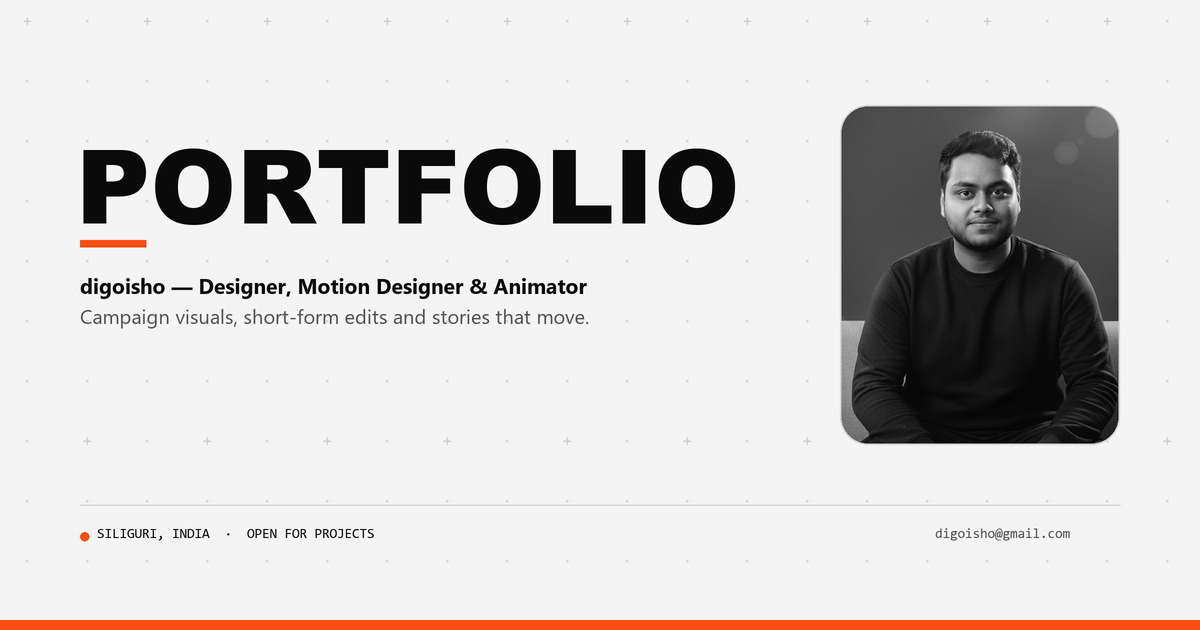
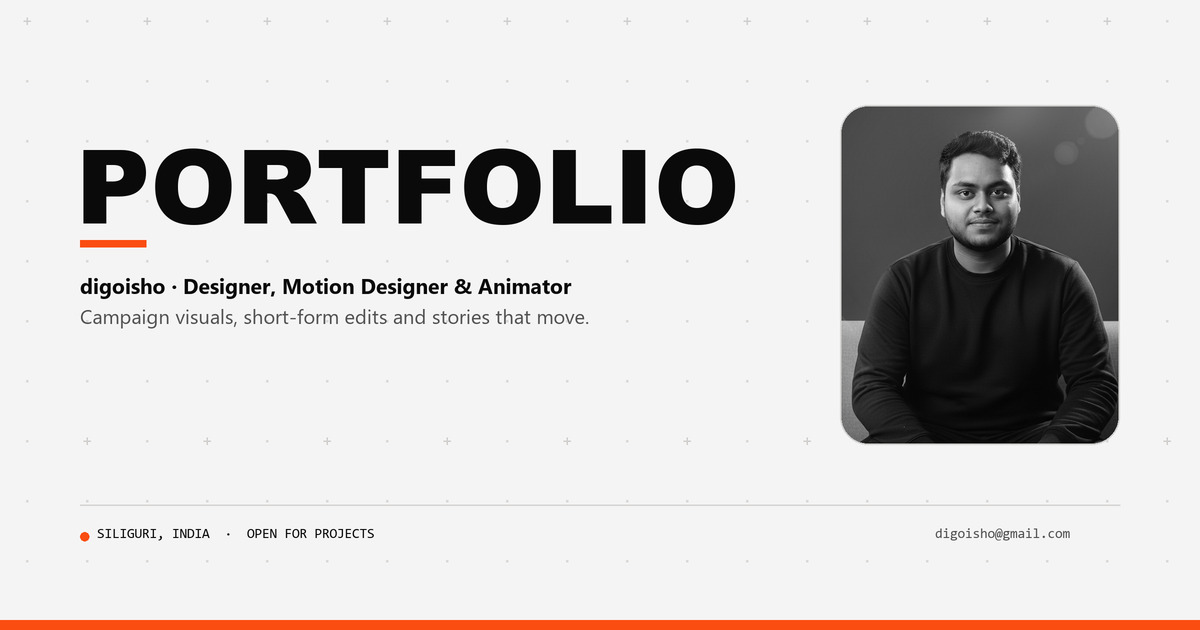
Remove all em-dashes across website copy, metadata, OG card, and docs

Changed region(s): [[0.1542, 0.4222, 0.4933, 0.4825]]

diff --git a/index.html b/index.html
@@ -3,21 +3,21 @@
 <head>
 <meta charset="utf-8">
 <meta name="viewport" content="width=device-width, initial-scale=1, viewport-fit=cover">
-<title>digoisho — Design, Motion &amp; Animation</title>
-<meta name="description" content="Portfolio of digoisho — Design Head, motion designer, animator and video editor based in Siliguri, India.">
+<title>digoisho · Design, Motion &amp; Animation</title>
+<meta name="description" content="Portfolio of digoisho, Design Head, motion designer, animator and video editor based in Siliguri, India.">
 <meta name="theme-color" content="#F5F4F4">
 <meta property="og:type" content="website">
 <meta property="og:site_name" content="digoisho">
-<meta property="og:title" content="digoisho — Design Head, Motion &amp; 2D Animation">
-<meta property="og:description" content="Campaign visuals, short-form edits, 2D animations and stories that move — by digoisho (Siliguri, India).">
+<meta property="og:title" content="digoisho · Design Head, Motion &amp; 2D Animation">
+<meta property="og:description" content="Campaign visuals, short-form edits, 2D animations and stories that move by digoisho (Siliguri, India).">
 <meta property="og:image" content="https://raw.githubusercontent.com/digoisho/Digoisho-Portfolio-2026_03/main/Images/og-cover.jpg">
 <meta property="og:image:type" content="image/jpeg">
 <meta property="og:image:width" content="1200">
 <meta property="og:image:height" content="630">
-<meta property="og:image:alt" content="digoisho — Design Head, Motion &amp; 2D Animation portfolio preview">
+<meta property="og:image:alt" content="digoisho · Design Head, Motion &amp; 2D Animation portfolio preview">
 <meta name="twitter:card" content="summary_large_image">
-<meta name="twitter:title" content="digoisho — Design Head, Motion &amp; 2D Animation">
-<meta name="twitter:description" content="Campaign visuals, short-form edits, 2D animations and stories that move — by digoisho.">
+<meta name="twitter:title" content="digoisho · Design Head, Motion &amp; 2D Animation">
+<meta name="twitter:description" content="Campaign visuals, short-form edits, 2D animations and stories that move by digoisho.">
 <meta name="twitter:image" content="https://raw.githubusercontent.com/digoisho/Digoisho-Portfolio-2026_03/main/Images/og-cover.jpg">
 <link rel="icon" type="image/svg+xml" href="Images/Digoisho%20logo.svg">
 <link rel="preload" as="image" href="Images/Motion%20Video%20BG%20WebP/Motion%20Video%20BG_00001.webp" type="image/webp">
@@ -56,7 +56,7 @@
   --font:'Open Sans',system-ui,-apple-system,sans-serif;
   --mono:'JetBrains Mono',ui-monospace,SFMono-Regular,Menlo,monospace;
 
-  /* True symmetric & silky ease-in-out curves — zero frame-0 snap */
+  /* True symmetric & silky ease-in-out curves - zero frame-0 snap */
   --ease:cubic-bezier(.65,0,.35,1);
   --ease-out:cubic-bezier(.45,0,.15,1);
 }
@@ -79,7 +79,7 @@ img{display:block;max-width:100%}
 :focus-visible{outline:2px solid var(--orange);outline-offset:3px}
 
 /* ============================================================
-   70% UNIFIED STUDIO BACKDROP (Flat #F5F4F4 — Zero Glow Washes,
+   70% UNIFIED STUDIO BACKDROP (Flat #F5F4F4 - Zero Glow Washes,
    30% Opacity Interactive Pixel Lattice)
    ============================================================ */
 .studio-bg{
@@ -188,7 +188,7 @@ img{display:block;max-width:100%}
 .u-link:hover::after{transform:scaleX(1);transform-origin:left}
 
 /* ============================================================
-   1. HERO — Bold Studio Stage + Direct Folder Jump Strip
+   1. HERO - Bold Studio Stage + Direct Folder Jump Strip
    ============================================================ */
 #hero{padding-top:34px;padding-bottom:36px}
 
@@ -512,7 +512,7 @@ img{display:block;max-width:100%}
 .folder-jump:hover svg{opacity:1;fill:var(--orange);transform:scale(1.08)}
 
 /* ============================================================
-   1B. MOTION VIDEO BG — 1920x1080 @ 30fps PNG Sequence Section
+   1B. MOTION VIDEO BG - 1920x1080 @ 30fps PNG Sequence Section
    ============================================================ */
 .motion-seq-sec{
   position:relative;
@@ -538,7 +538,7 @@ img{display:block;max-width:100%}
 }
 
 /* ============================================================
-   2. WORK — Folder Carousel + Pocket Gallery (Zero Glow:
+   2. WORK - Folder Carousel + Pocket Gallery (Zero Glow:
    20% Carbon Black Active Folder, 70% Cool Stone Side Folders,
    10% Solid Blaze Orange #FA4D11 Protruding Folder Lip)
    ============================================================ */
@@ -691,7 +691,7 @@ img{display:block;max-width:100%}
 .stage.m:not(.go) .card{top:324px;height:150px;visibility:hidden;transition:transform .68s var(--ease),top .68s var(--ease),height .68s var(--ease),visibility 0s linear .7s}
 
 /* ============================================================
-   3. ABOUT — Folder-Tabbed Studio Stage (One screen, zero boxes)
+   3. ABOUT - Folder-Tabbed Studio Stage (One screen, zero boxes)
    ============================================================ */
 #about{
   min-height:auto;
@@ -710,7 +710,7 @@ img{display:block;max-width:100%}
 }
 .sec-title span{color:rgba(10,10,10,.36)}
 
-/* Horizontal Overlapping Folder-Tab Switcher — Same Design.ai Curve & Cascade as .menubar, Flush on Line, Zero Glow */
+/* Horizontal Overlapping Folder-Tab Switcher - Same Design.ai Curve & Cascade as .menubar, Flush on Line, Zero Glow */
 .folder-tabs{
   --ft-h:clamp(38px,3.6vw,50px);
   --ft-s:calc(var(--ft-h) * .8215);
@@ -764,7 +764,7 @@ img{display:block;max-width:100%}
   transition:color .44s var(--ease);
 }
 
-/* Stacked grid crossfade — zero display:none snap */
+/* Stacked grid crossfade - zero display:none snap */
 .about-panels{
   padding-top:48px;min-height:0;
   display:grid;align-items:start;
@@ -878,7 +878,7 @@ img{display:block;max-width:100%}
 .tk-group p span{color:var(--ink-45);font-weight:400;font-size:.8em}
 
 /* ============================================================
-   4. CONTACT & POEM — Scroll-Reactive Dark-Mode Envelope Stage
+   4. CONTACT & POEM - Scroll-Reactive Dark-Mode Envelope Stage
    (Closed envelope at scroll entry -> Flap unfolds up & reveals
     dark-mode #0A0A0A contact stage as user scrolls to bottom)
    ============================================================ */
@@ -982,7 +982,7 @@ img{display:block;max-width:100%}
 }
 .soc-link:hover{color:var(--orange);transform:translate3d(0,-2px,0)}
 
-/* Expandable DIGOISHO Poem — Horizontal 4-stanza spread (Dark Mode inside Envelope) */
+/* Expandable DIGOISHO Poem - Horizontal 4-stanza spread (Dark Mode inside Envelope) */
 .poem-drawer{margin-top:44px}
 .poem-trig{
   display:inline-flex;align-items:center;gap:12px;
@@ -1045,7 +1045,7 @@ img{display:block;max-width:100%}
 
 /* ============================================================
    FLOATING BUBBLE -> REVEALS SPECIAL MENTIONS (Elma Zarin Khan)
-   (20% Carbon Black Pill + 10% Blaze Orange Dot — Zero Glow)
+   (20% Carbon Black Pill + 10% Blaze Orange Dot - Zero Glow)
    ============================================================ */
 .sm-bubble{
   position:fixed;
@@ -1087,7 +1087,7 @@ img{display:block;max-width:100%}
   letter-spacing:.12em;text-transform:uppercase;color:var(--orange);
 }
 
-/* Revealed Special Mentions Overlay (Lightweight GPU Composited — Zero Blur/Clip Glitch) */
+/* Revealed Special Mentions Overlay (Lightweight GPU Composited - Zero Blur/Clip Glitch) */
 .sm-overlay{
   position:fixed;inset:0;z-index:88;
   background:var(--paper);
@@ -1156,7 +1156,7 @@ img{display:block;max-width:100%}
   font-weight:800;font-size:clamp(2.1rem,4.6vw,3.6rem);
   line-height:1;letter-spacing:-.035em;color:var(--black);
 }
-/* Author's own thought about her — plain paragraph, zero quotation marks */
+/* Author's own thought about her - plain paragraph, zero quotation marks */
 .sm-thought{
   margin-top:22px;
   font-size:clamp(1.08rem,1.65vw,1.34rem);
@@ -1410,7 +1410,7 @@ img{display:block;max-width:100%}
 
         <div class="hero-sub-row">
           <p class="hero-bio">
-            I’m <strong>digoisho</strong> — a designer, motion designer, animator and video editor crafting campaign visuals, short-form edits and stories that move.
+            I’m <strong>digoisho</strong>, a designer, motion designer, animator and video editor crafting campaign visuals, short-form edits and stories that move.
           </p>
           <div class="hero-cta-group">
             <a href="#work" class="folder-btn">
@@ -1536,7 +1536,7 @@ img{display:block;max-width:100%}
     </div>
   </section>
 
-  <!-- ============ 3. ABOUT (Folder-Tabbed Studio Stage — No Special Mentions here) ============ -->
+  <!-- ============ 3. ABOUT (Folder-Tabbed Studio Stage - No Special Mentions here) ============ -->
   <section id="about" class="stage-sec" aria-labelledby="about-h">
     <div class="wrap">
       <div class="about-header">
@@ -1580,7 +1580,7 @@ img{display:block;max-width:100%}
                 </div>
                 <div class="p-stat">
                   <small>Active Since</small>
-                  <strong>2021 — Present</strong>
+                  <strong>2021 - Present</strong>
                 </div>
               </div>
 
@@ -1600,22 +1600,22 @@ img{display:block;max-width:100%}
           <div class="journey-spread">
             <div class="exp-grid">
               <div class="exp-item">
-                <span class="yr">2024 — NOW</span>
+                <span class="yr">2024 - NOW</span>
                 <h3>Design Head (HOD)</h3>
                 <p>Lead the design team, hold brand consistency, build motion styles for real estate and fashion brands, and direct festive campaigns for Clearstone, Sampurna and Featherlite Blocks.</p>
               </div>
               <div class="exp-item">
-                <span class="yr">2023 — 2024</span>
+                <span class="yr">2023 - 2024</span>
                 <h3>Senior Graphic &amp; Motion Designer</h3>
                 <p>Closed B2B clients through concept pitches, delivered annual films for real estate and Young Indians Siliguri, and led editing, animation and revisions end-to-end.</p>
               </div>
               <div class="exp-item">
-                <span class="yr">2022 — 2023</span>
+                <span class="yr">2022 - 2023</span>
                 <h3>Junior Graphic &amp; Motion Designer</h3>
                 <p>Delivered fast-turnaround campaign assets under tight deadlines while streamlining studio production workflows.</p>
               </div>
               <div class="exp-item">
-                <span class="yr">2021 — 2022</span>
+                <span class="yr">2021 - 2022</span>
                 <h3>Intern Graphic Designer</h3>
                 <p>Designed social media creatives, banners and pitch decks for real-estate brands.</p>
               </div>
@@ -1624,7 +1624,7 @@ img{display:block;max-width:100%}
             <div class="edu-col">
               <p class="col-kicker">Education</p>
               <div class="edu-item">
-                <span>2021 — 2024</span>
+                <span>2021 - 2024</span>
                 <h4>Diploma in 3D &amp; VFX Prime</h4>
                 <p>Arena Animation</p>
                 <em>Discontinued before final completion</em>
@@ -1673,7 +1673,7 @@ img{display:block;max-width:100%}
 
   <!-- ============ PRE-FOOTER INTERACTIVE PEBBLE MASCOT ============ -->
   <div class="prefoot-mascot-wrap" aria-label="Interactive companion before footer">
-    <div class="mascot-slot prefoot-mascot-slot" data-mascot-slot data-mascot-role="shooter" title="Click to shoot — pew pew!">
+    <div class="mascot-slot prefoot-mascot-slot" data-mascot-slot data-mascot-role="shooter" title="Click to shoot: pew pew!">
       <svg viewBox="0 0 500 500" aria-label="Interactive digoisho mascot">
         <defs>
           <mask id="eye-mask-l-foot" maskUnits="userSpaceOnUse" x="-60" y="-60" width="120" height="120">
@@ -1730,7 +1730,7 @@ img{display:block;max-width:100%}
                  3.0s -> 0.5s digit counter animation into English 'hello'
                  4.5s (after 1s displaying 'hello') -> 'do you play video games?') -->
             <g transform="translate(146, -134)">
-              <g class="m-thought" aria-label="hello — do you play video games?">
+              <g class="m-thought" aria-label="hello, do you play video games?">
                 <g class="m-thought-comma">
                   <path d="M -11,-6 A 11,11 0 1,1 11,-6 C 11,7 1,17 -11,20 C -14,21 -15,17 -12,15 C -5,11 -2,5 -2,1 A 11,11 0 0,1 -11,-6 Z" fill="#0E0E0E" stroke="rgba(255,255,255,0.22)" stroke-width="1.5"/>
                 </g>
@@ -1926,19 +1926,19 @@ const FOLDERS=[
   },
   {
     title:'AI MICRO<br>DRAMAS',name:'AI MICRO DRAMAS',label:'COMING SOON',icon:'ai',
-    emptyNote:'Uploading to YouTube — back soon.',images:[]
+    emptyNote:'Uploading to YouTube. Back soon.',images:[]
   },
   {
     title:'MOTION<br>VIDEOS',name:'MOTION VIDEOS',label:'COMING SOON',icon:'mo',
-    emptyNote:'Uploading to YouTube — back soon.',images:[]
+    emptyNote:'Uploading to YouTube. Back soon.',images:[]
   },
   {
     title:'2D<br>ANIMATIONS',name:'2D ANIMATIONS',label:'COMING SOON',icon:'an',
-    emptyNote:'Uploading to YouTube — back soon.',images:[]
+    emptyNote:'Uploading to YouTube. Back soon.',images:[]
   },
   {
     title:'SHORT<br>REELS',name:'SHORT REELS',label:'COMING SOON',icon:'sr',
-    emptyNote:'Uploading to YouTube — back soon.',images:[]
+    emptyNote:'Uploading to YouTube. Back soon.',images:[]
   },
   {
     title:'CAMPAIGN<br>CREATIVES',name:'CAMPAIGN CREATIVES',label:'49 POSTS',icon:'cc',
@@ -1974,7 +1974,7 @@ const folds=FOLDERS.map((f,i)=>{
   b.className='fold';
   b.type='button';
   b.innerHTML=`<div class="tab"></div><div class="lbl">${f.label}</div><div class="body"></div><svg class="pen"><use href="#i-${f.icon}"/></svg><div class="ttl">${f.title}</div>`;
-  b.setAttribute('aria-label',`${f.name} — ${f.label}`);
+  b.setAttribute('aria-label',`${f.name} · ${f.label}`);
   b.onclick=()=>{const o=off(i-cur);if(o===0)return openGal(i);dir=o>0?1:-1;cur=i;renderCar()};
   $('#folds').appendChild(b);
   return b;
@@ -2007,7 +2007,7 @@ function smoothScrollTo(targetEl,dur=860){
   const t0=performance.now();
   function step(now){
     const p=Math.min(1,(now-t0)/dur);
-    /* Symmetric easeInOutCubic — smooth ease-in AND smooth ease-out */
+    /* Symmetric easeInOutCubic - smooth ease-in AND smooth ease-out */
     const e=p<.5?4*p*p*p:1-Math.pow(-2*p+2,3)/2;
     window.scrollTo(0,startY+dist*e);
     if(p<1)scrollRaf=requestAnimationFrame(step);
@@ -2172,7 +2172,7 @@ $('#close').onclick=closeGal;
   else setTimeout(run,500);
 })();
 
-/* ---- Lightbox (Smooth Crossfade — Full-Res Artwork View) ---- */
+/* ---- Lightbox (Smooth Crossfade - Full-Res Artwork View) ---- */
 const lbox=$('#lbox'),lbImg=$('#lb-img'),smBub=$('#sm-bubble'),smOv=$('#sm-overlay');
 let lbSwapTimer=0;
 function lockBodyScroll(lock){
@@ -2589,7 +2589,7 @@ syncNav();
 
 /* ============================================================
    30% OPACITY INTERACTIVE STUDIO PIXEL LATTICE (ZERO GLOW)
-   (Second-order dt-independent ease-in-out filter — zero snap,
+   (Second-order dt-independent ease-in-out filter - zero snap,
     crisp Carbon #0A0A0A + Blaze Orange #FA4D11 marks at 30% opacity)
    ============================================================ */
 (function initStudioGround(){
@@ -2680,7 +2680,7 @@ syncNav();
 
     ctx.clearRect(0,0,vw,vh);
 
-    /* 30% Opacity Interactive Pixel Lattice — Zero Glow */
+    /* 30% Opacity Interactive Pixel Lattice - Zero Glow */
     const step=72;
     const R=440,R2=R*R;
     const yShift=(stCur*108)%step;
@@ -3240,7 +3240,7 @@ syncNav();
 })();
 
 /* ============================================================
-   MOTION VIDEO BG — 1920x1080 @ Locked 30fps PNG Sequence Loop
+   MOTION VIDEO BG - 1920x1080 @ Locked 30fps PNG Sequence Loop
    (Streams Images/Motion Video BG/Motion Video BG_00001.png .. 00268.png,
     pre-decodes a sliding ImageBitmap lookahead window off the main thread,
     and paces playback at an exact 30.00 fps without VSync judder)

diff --git a/mascot-preview.html b/mascot-preview.html
@@ -4,7 +4,7 @@
 <head>
   <meta charset="utf-8">
   <meta name="viewport" content="width=device-width, initial-scale=1">
-  <title>digoisho — 500x500 Mascot Head Animation</title>
+  <title>digoisho - 500x500 Mascot Head Animation</title>
   <link rel="preconnect" href="https://fonts.googleapis.com">
   <link rel="preconnect" href="https://fonts.gstatic.com" crossorigin>
   <link
@@ -361,7 +361,7 @@
                 <rect x="-42" y="-64" width="136" height="36" rx="16"/>
               </clipPath>
             </defs>
-            <g class="m-thought" id="m-thought" aria-label="hello — do you play video games?">
+            <g class="m-thought" id="m-thought" aria-label="hello - do you play video games?">
               <g class="m-thought-comma">
                 <path d="M -11,-6 A 11,11 0 1,1 11,-6 C 11,7 1,17 -11,20 C -14,21 -15,17 -12,15 C -5,11 -2,5 -2,1 A 11,11 0 0,1 -11,-6 Z" fill="#0E0E0E" stroke="rgba(255,255,255,0.22)" stroke-width="1.5"/>
               </g>

diff --git a/README.md b/README.md
@@ -1,8 +1,8 @@
-# digoisho — Portfolio (`2026_03`)
+# digoisho - Portfolio (`2026_03`)
 
 ![digoisho portfolio preview](Images/og-cover.jpg)
 
-Personal studio portfolio of **digoisho** — Design Head, Motion Designer, 2D Animator, and Video Editor based in Siliguri, India.
+Personal studio portfolio of **digoisho** - Design Head, Motion Designer, 2D Animator, and Video Editor based in Siliguri, India.
 
 Built as a zero-dependency, single-document interactive stage (`index.html`) anchored around a strict **70 / 20 / 10** editorial color system (`#F5F4F4` Studio Off-White · `#0A0A0A` Jet Carbon · `#FA4D11` Blaze Vermilion) with zero neon glow washes, custom isotropic folder-tab geometry, spring-driven pebble mascots, a locked `30 fps` motion sequence showcase, an interactive folder-pocket gallery, and a scroll-reactive dark-mode envelope footer.
 
